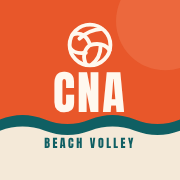
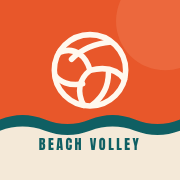
Icona senza scritte di terzi: palla, mare e Beach Volley
Claude-Session: https://claude.ai/code/session_01D1jvnC9ZuNW5AjnUwfBH55

Changed region(s): [[0.2778, 0.1111, 0.7222, 0.6389], [0.5, 0.75, 0.7778, 0.8333], [0.1944, 0.75, 0.4722, 0.8333]]

diff --git a/index.html b/index.html
@@ -16,14 +16,14 @@
   <link rel="preconnect" href="https://fonts.googleapis.com">
   <link rel="preconnect" href="https://fonts.gstatic.com" crossorigin>
   <link href="https://fonts.googleapis.com/css2?family=Anton&family=DM+Sans:wght@400;500;700&display=swap" rel="stylesheet">
-  <link rel="stylesheet" href="css/app.css?v=6">
+  <link rel="stylesheet" href="css/app.css?v=7">
 </head>
 <body>
   <div id="app"></div>
   <noscript>Per usare l'app serve JavaScript attivo.</noscript>
-  <script src="js/config.js?v=6"></script>
-  <script src="js/logic.js?v=6"></script>
-  <script src="js/api.js?v=6"></script>
-  <script src="js/app.js?v=6"></script>
+  <script src="js/config.js?v=7"></script>
+  <script src="js/logic.js?v=7"></script>
+  <script src="js/api.js?v=7"></script>
+  <script src="js/app.js?v=7"></script>
 </body>
 </html>

diff --git a/sw.js b/sw.js
@@ -1,5 +1,5 @@
 /* Tiene in memoria la grafica dell'app così si apre subito; i dati arrivano sempre freschi dalla rete. */
-const VERSIONE = 'bv-v6';
+const VERSIONE = 'bv-v7';
 const FILE = ['./', 'index.html', 'css/app.css', 'js/config.js', 'js/logic.js', 'js/api.js', 'js/app.js', 'manifest.webmanifest', 'icone/icona.svg', 'icone/icona-192.png'];
 
 self.addEventListener('install', (e) => {
